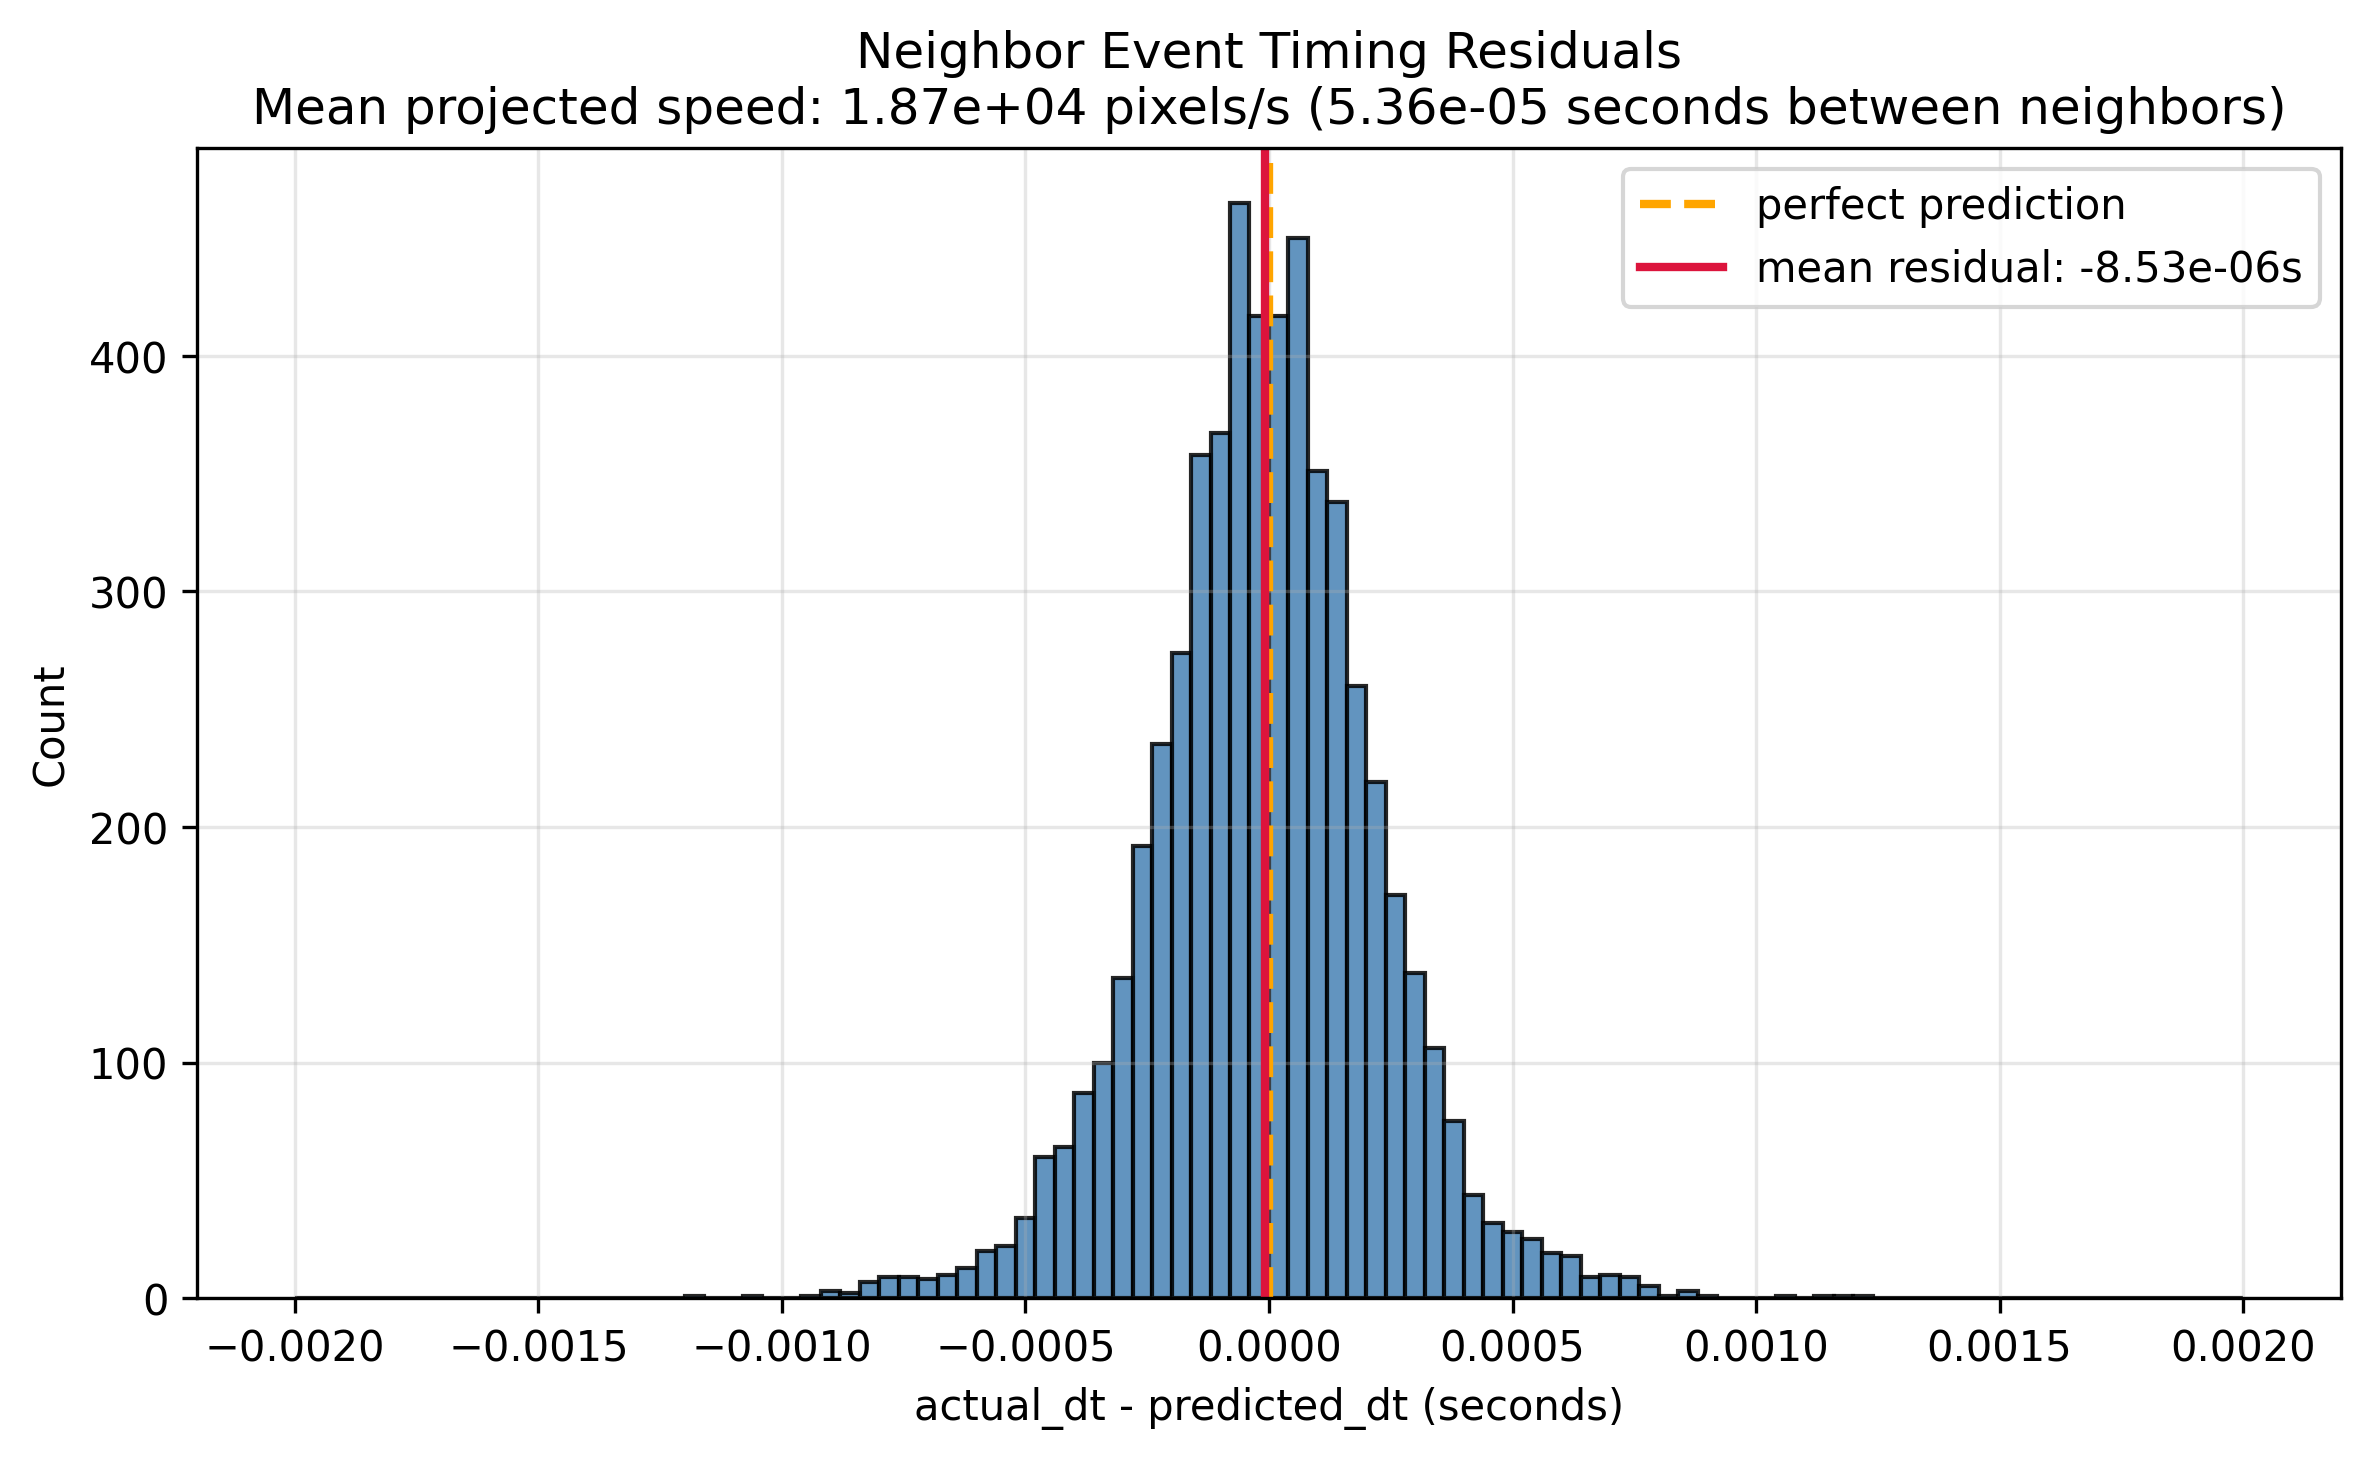
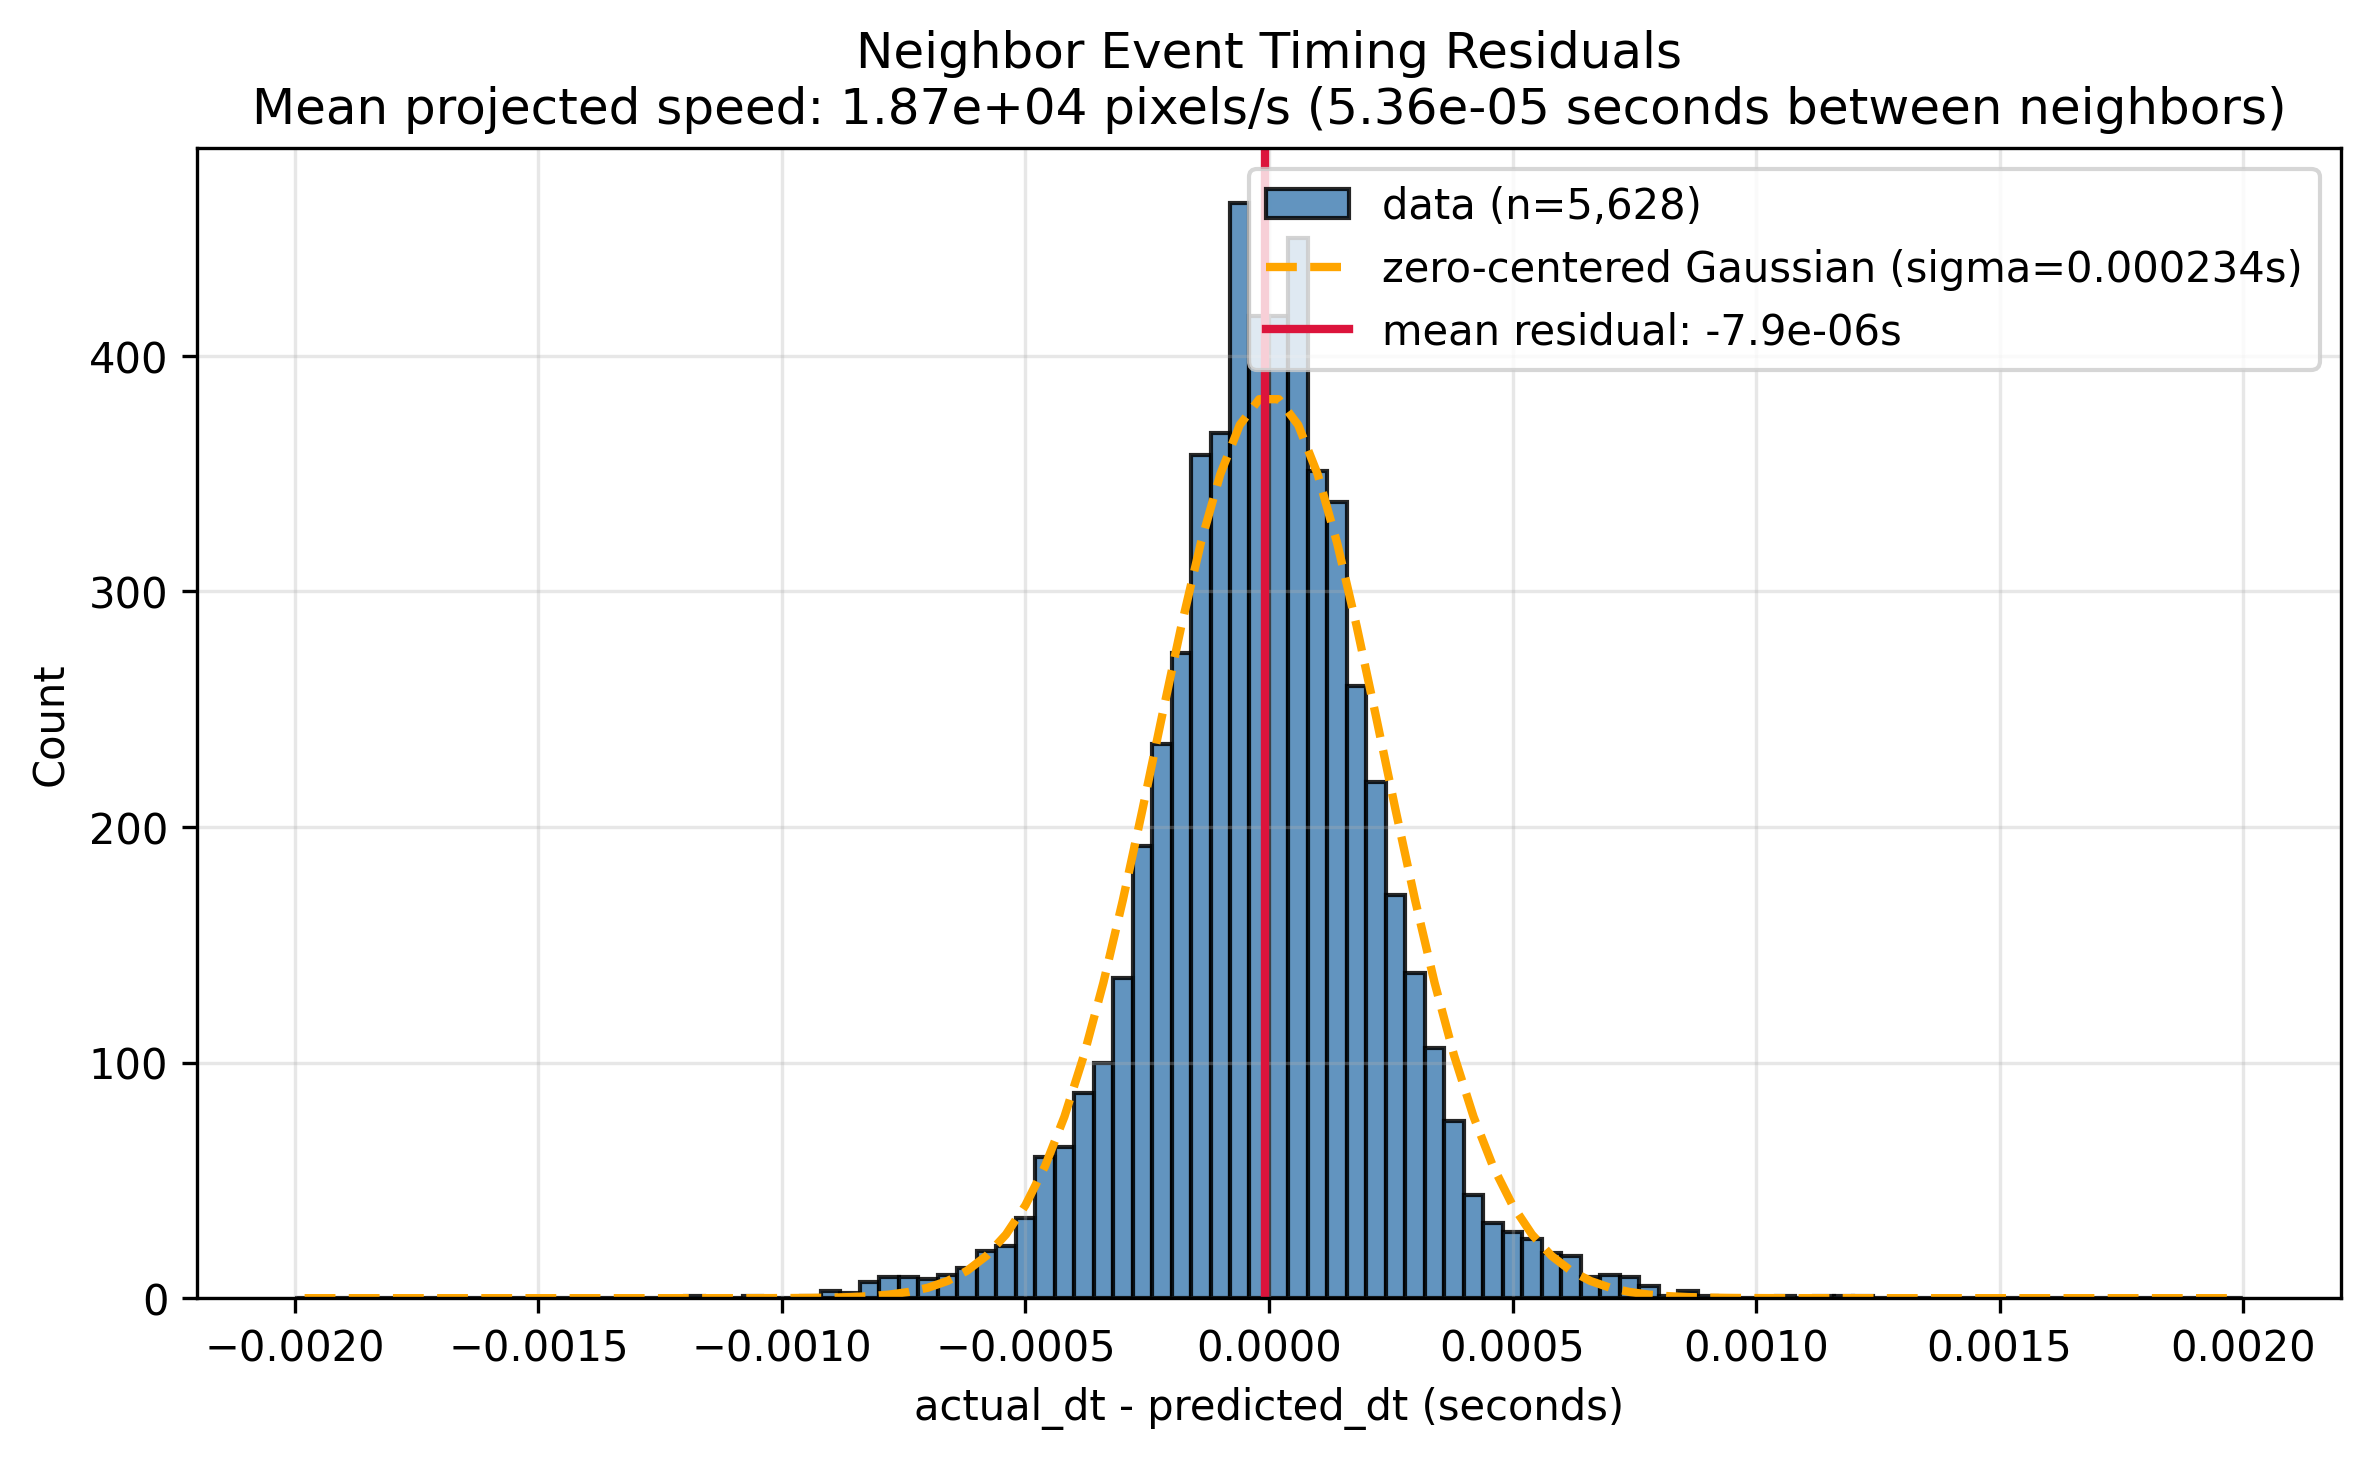
pictures from equal num events and tracking different parts of raindrop

diff --git a/neighbor_time_prediction.py b/neighbor_time_prediction.py
@@ -1,4 +1,5 @@
 import argparse
+import math
 import re
 from pathlib import Path
 
@@ -247,12 +248,28 @@ def prediction_residuals(
     return residuals[[col for col in columns if col in residuals.columns]]
 
 
+def _normal_cdf(x, mean, std_dev):
+    z = (x - mean) / (std_dev * np.sqrt(2.0))
+    return 0.5 * (1.0 + np.array([math.erf(value) for value in z]))
+
+
+def _zero_centered_gaussian_counts(values, bin_edges):
+    sigma = float(np.sqrt(np.mean(values ** 2)))
+    if sigma <= 0 or not np.isfinite(sigma):
+        return None, None
+
+    expected_counts = len(values) * (
+        _normal_cdf(bin_edges[1:], 0.0, sigma)
+        - _normal_cdf(bin_edges[:-1], 0.0, sigma)
+    )
+    return expected_counts, sigma
+
+
 def plot_residual_distribution(residuals, output_base, bins=100, min_residual=None, max_residual=None, show=True):
     valid = residuals["residual_t"].to_numpy(dtype=float)
     valid = valid[np.isfinite(valid)]
     if len(valid) == 0:
         raise ValueError("No valid residuals to plot.")
-    mean_residual = float(np.mean(valid))
 
     speeds = residuals["velocity_component_pixels_per_s"].to_numpy(dtype=float)
     speeds = speeds[np.isfinite(speeds)]
@@ -270,9 +287,25 @@ def plot_residual_distribution(residuals, output_base, bins=100, min_residual=No
     else:
         hist_range = None
 
+    mean_residual = float(np.mean(valid))
+    hist_values, bin_edges = np.histogram(valid, bins=bins, range=hist_range)
+    bin_centers = 0.5 * (bin_edges[:-1] + bin_edges[1:])
+    expected_gaussian_counts = np.full_like(hist_values, np.nan, dtype=float)
+    expected_counts, gaussian_sigma = _zero_centered_gaussian_counts(valid, bin_edges)
+    if expected_counts is not None:
+        expected_gaussian_counts = expected_counts
+
     fig, ax = plt.subplots(figsize=(8, 5))
-    ax.hist(valid, bins=bins, range=hist_range, color="steelblue", edgecolor="black", alpha=0.85)
-    ax.axvline(0.0, color="orange", linestyle="--", linewidth=2, label="perfect prediction")
+    ax.hist(valid, bins=bin_edges, color="steelblue", edgecolor="black", alpha=0.85, label=f"data (n={len(valid):,})")
+    if expected_counts is not None:
+        ax.plot(
+            bin_centers,
+            expected_counts,
+            color="orange",
+            linestyle="--",
+            linewidth=2,
+            label=f"zero-centered Gaussian (sigma={gaussian_sigma:.3g}s)",
+        )
     ax.axvline(
         mean_residual,
         color="crimson",
@@ -293,13 +326,13 @@ def plot_residual_distribution(residuals, output_base, bins=100, min_residual=No
     output_base = Path(output_base)
     output_base.parent.mkdir(parents=True, exist_ok=True)
     fig.savefig(str(output_base) + ".png", dpi=300, bbox_inches="tight")
-    hist_values, bin_edges = np.histogram(valid, bins=bins, range=hist_range)
     pd.DataFrame(
         {
             "bin": np.arange(len(hist_values)),
             "left": bin_edges[:-1],
             "right": bin_edges[1:],
             "count": hist_values,
+            "expected_gaussian_count": expected_gaussian_counts,
         }
     ).to_csv(str(output_base) + ".csv", index=False)
     if show: